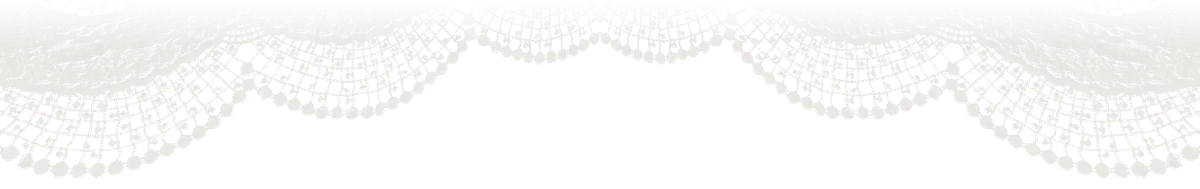
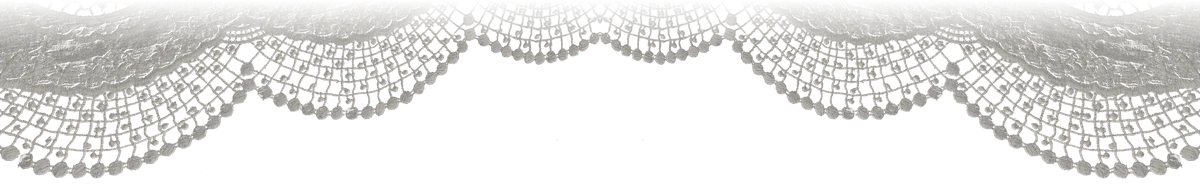
Midnight Chapel: lace edging down both sides; lily backdrop for countdown
- The pearl strand, the lily of the valley at its end and the dropped
  pearls are gone. Instead a scalloped lace edging is sewn down both
  sides of the page as you scroll, scallops facing inward (the hero's
  lace, turned upright, with the thread pattern brought out so it reads
  on white).
- The countdown's frosted glass no longer hides a photo of the couple:
  behind it is a soft white field of lily of the valley that clears as
  it scrolls in.
- The thin lace ribbon under each section heading is removed.

Claude-Session: https://claude.ai/code/session_01B2hpZLg8v4z8WiErSMQ7o1

diff --git a/public/css/lobby-chapel.css b/public/css/lobby-chapel.css
@@ -8,7 +8,7 @@
      材質    白色圓拱與格子天花板、水晶燈、厚玻璃、毛玻璃、白紗、蕾絲、珍珠
      素材    真的照片：純白禮堂、白花走道、去背的戒指／水晶吊燈／鈴蘭／百合／白色蝴蝶蘭、
              白紗、蕾絲、珍珠、滿天星；全部在 public/img/chapel/，出處見 README
-     新人照片  玻璃相片 ×3（照片牆前三張）、故事兩張、倒數的毛玻璃後面一張、出席回覆旁一張
+     新人照片  玻璃相片 ×3（照片牆前三張）、故事兩張、出席回覆旁一張
 
    捲動：
      ・進站：接開場最後一刻 —— 從一片白光裡慢慢定下來
@@ -16,7 +16,7 @@
      ・整頁：兩旁垂著白紗，輕輕飄、跟著捲動慢慢移；左邊一串珍珠跟著捲動往下垂
      ・玻璃相片：捲動時輕輕轉，玻璃上的反光從左滑到右
      ・區塊標題上的實物：捲到的時候從下面浮上來
-     ・倒數：毛玻璃後面是兩個人的照片，越捲越清楚
+     ・倒數：毛玻璃後面是一片鈴蘭，越捲越清楚
 
    每一條規則都收在 .mc-* 或 body[data-lobby="midnight-chapel"] 底下。
 ============================================================ */
@@ -33,7 +33,7 @@ body[data-lobby="midnight-chapel"] .bg-decor{
     radial-gradient(60% 40% at 15% 30%,rgba(214,226,244,.55),transparent 70%),
     radial-gradient(50% 40% at 90% 70%,rgba(244,226,236,.5),transparent 70%),
     linear-gradient(180deg,#fbfaf8,#f4f2ef);}
-.mc-lobby{position:relative;}
+.mc-lobby{position:relative;overflow-x:clip;}
 
 /* ============================================================
    捲動進場
@@ -229,7 +229,8 @@ body[data-hero-name="cn"] .mc-hero .mc-names{font-family:'Noto Serif TC',serif;f
 
 /* ---- 倒數：毛玻璃後面是兩個人的照片，越捲越清楚 ---- */
 .mc-count{--clear:clamp(0,calc((var(--sp,0) - .12) * 2.4),1);}
-.mc-frost-ph{position:absolute;inset:-30px;background:#e8e6ea center 30%/cover no-repeat;
+/* 毛玻璃後面：一片柔白的鈴蘭（Svetlana Butovskaya／Unsplash），捲到這裡慢慢清楚 */
+.mc-frost-ph{position:absolute;inset:-30px;background:#f3f2ee url(../img/chapel/lily-field.webp) 50% 45%/cover no-repeat;
   filter:blur(calc((1 - var(--clear)) * 18px)) saturate(calc(.6 + var(--clear) * .4)) brightness(1.05);}
 .mc-frost{position:absolute;inset:0;background:linear-gradient(180deg,rgba(248,246,243,.7),rgba(248,246,243,.35) 50%,rgba(248,246,243,.7));
   opacity:calc(1 - var(--clear) * .55);}
@@ -263,18 +264,14 @@ body[data-hero-name="cn"] .mc-hero .mc-names{font-family:'Noto Serif TC',serif;f
   display:flex;flex-direction:column;align-items:center;gap:8px;border-top:none;color:var(--mc-soft);}
 .mc-fin{font:italic 400 24px 'Cormorant Garamond',serif;color:var(--mc-gold);text-transform:none;letter-spacing:.02em;}
 
-/* ---- 捲動軌跡：一串真的珍珠（Paula Bustillos／Unsplash）往下垂，末端綁著一小枝鈴蘭，
-   沿路掉下幾顆珍珠（lobby-trail.css） ---- */
-.mc-trail{--line:url(../img/chapel/pearl-strand.webp) center top/22px auto repeat-y;--line-w:22px;
-  --tip:url(../img/chapel/lily-valley2.webp);--tip-w:46px;--tip-ar:213/460;--tip-y:-4%;
-  --mark:url(../img/chapel/pearl.webp);--mark-size:13px;
-  --line-m:url(../img/chapel/pearl-strand.webp) center top/14px auto repeat-y;--line-w-m:14px;}
+/* ---- 捲動軌跡：兩旁的蕾絲縫邊（Anna Evans／Unsplash 的波浪蕾絲，轉成直的、接成一整條），
+   跟著捲動一路往下縫出來；波浪朝向頁面中間（lobby-trail.css） ---- */
+.mc-trail{--line:url(../img/chapel/lace-side.webp) left top/34px auto repeat-y;--line-w:34px;
+  --line-m:url(../img/chapel/lace-side.webp) left top/20px auto repeat-y;--line-w-m:20px;}
 .lx-trail.mc-trail{z-index:6;}
-.mc-trail .lx-trail-line{filter:drop-shadow(0 2px 2px rgba(80,70,60,.18));}
-.mc-trail .lx-trail-tip{animation:mc-swing 4s ease-in-out infinite alternate;filter:drop-shadow(0 6px 6px rgba(80,70,60,.18));}
-@keyframes mc-swing{from{rotate:-4deg;}to{rotate:4deg;}}
-.mc-trail .lx-mark{filter:drop-shadow(0 1px 1.5px rgba(80,70,60,.25));}
-@media (prefers-reduced-motion:reduce){.mc-trail .lx-trail-tip{animation:none;}}
+.mc-trail .lx-trail-line{opacity:.9;filter:drop-shadow(0 1px 1px rgba(80,70,60,.12));}
+.mc-trail-r{--tr-left:min(calc(100% - 24px),calc(50% + 532px));--tr-left-m:calc(100% - 11px);}
+.mc-trail-r .lx-trail-line{transform:translateX(-50%) scaleX(-1);}
 
 /* ---- hero 右下角一枝白色蝴蝶蘭（Jocelyn Morales／Unsplash，去背） ---- */
 .mc-orchid{position:absolute;right:clamp(-30px,-1vw,0px);bottom:clamp(30px,8vh,90px);z-index:2;width:clamp(200px,30vw,420px);aspect-ratio:620/322;
@@ -283,16 +280,11 @@ body[data-hero-name="cn"] .mc-hero .mc-names{font-family:'Noto Serif TC',serif;f
 @keyframes mc-orchid{to{transform:rotate(-5deg) translateY(-4px);}}
 @media (prefers-reduced-motion:reduce){.mc-orchid{animation:none;}}
 
-/* ---- 蕾絲：hero 下緣垂一圈（Anna Evans／Unsplash 的蕾絲花邊，鏡射接成連續的波浪） ---- */
+/* ---- 蕾絲：hero 下緣垂一圈（同一條蕾絲花邊，鏡射接成連續的波浪） ---- */
 .mc-hero{position:relative;}
 .mc-lace-hem{position:absolute;left:0;right:0;bottom:-2px;z-index:3;height:clamp(54px,7vw,90px);pointer-events:none;
   background:url(../img/chapel/lace-edge.webp) 50% 100%/auto 100% repeat-x;transform:scaleY(-1);
   filter:drop-shadow(0 -2px 2px rgba(80,70,60,.12));}
-/* 區塊標題底下一條細細的蕾絲（Susan Wilkinson／Unsplash 的蕾絲緞帶） */
-.mc-head::after{content:'';display:block;width:min(230px,60vw);height:22px;margin-top:10px;
-  background:url(../img/chapel/lace-trim.webp) center/auto 100% repeat-x;opacity:.9;
-  -webkit-mask-image:linear-gradient(90deg,transparent,#000 20%,#000 80%,transparent);mask-image:linear-gradient(90deg,transparent,#000 20%,#000 80%,transparent);}
-
 /* ---- 頁尾：一片柔焦的滿天星（Danielle Suijkerbuijk／Unsplash） ---- */
 .mc-foot{overflow:hidden;padding-top:clamp(70px,10vw,120px);padding-bottom:clamp(60px,8vw,100px);}
 .mc-foot-bg{position:absolute;inset:0;z-index:-1;background:url(../img/chapel/gypsophila.webp) 50% 40%/cover no-repeat;opacity:.75;

diff --git a/preview/midnight-chapel.html b/preview/midnight-chapel.html
@@ -78,12 +78,9 @@
 <div id="app">
   <section class="panel lobby mc-lobby" data-panel="lobby" data-scroll>
 
-    <!-- 一串珍珠跟著捲動往下垂，末端綁著一小枝鈴蘭，沿路掉下幾顆珍珠（--ap 由 lobby-motion.js 算，共用的部分在 lobby-trail.css） -->
-    <div class="lx-trail mc-trail" data-scroll aria-hidden="true">
-      <i class="lx-trail-line"></i>
-      <i class="lx-mark" style="--k:0.1;--mx:15px;--mr:-10deg"></i><i class="lx-mark" style="--k:0.24;--mx:-15px;--mr:20deg"></i><i class="lx-mark" style="--k:0.38;--mx:16px;--mr:0deg"></i><i class="lx-mark" style="--k:0.52;--mx:-15px;--mr:-25deg"></i><i class="lx-mark" style="--k:0.66;--mx:15px;--mr:15deg"></i><i class="lx-mark" style="--k:0.8;--mx:-16px;--mr:-5deg"></i><i class="lx-mark" style="--k:0.94;--mx:15px;--mr:25deg"></i>
-      <i class="lx-trail-tip"></i>
-    </div>
+    <!-- 兩旁的蕾絲縫邊：跟著捲動一路往下縫出來（--ap 由 lobby-motion.js 算，共用的部分在 lobby-trail.css） -->
+    <div class="lx-trail mc-trail mc-trail-l" data-scroll aria-hidden="true"><i class="lx-trail-line"></i></div>
+    <div class="lx-trail mc-trail mc-trail-r" data-scroll aria-hidden="true"><i class="lx-trail-line"></i></div>
 
     <!-- 兩旁垂下來的白紗：固定在視窗兩側，輕輕地飄，跟著捲動慢慢移（--sp 來自 .mc-lobby） -->
     <div class="mc-veils" aria-hidden="true"><i></i><i></i></div>
@@ -229,9 +226,9 @@
         <div class="photo-rail" id="photoRail"></div>
       </section>
 
-      <!-- ===== 日期倒數：一整片毛玻璃，後面是兩個人的照片（第五張）—— 越捲越清楚 ===== -->
+      <!-- ===== 日期倒數：一整片毛玻璃，後面是一片柔白的鈴蘭 —— 越捲越清楚 ===== -->
       <section class="info-block mc-band mc-count" data-scroll>
-        <div class="mc-band-bg" aria-hidden="true"><div class="mc-frost-ph" data-photo="photo5"></div><i class="mc-frost"></i></div>
+        <div class="mc-band-bg" aria-hidden="true"><div class="mc-frost-ph"></div><i class="mc-frost"></i></div>
         <div class="mc-band-inner">
           <div class="mc-count-body mc-glass">
             <div class="mc-band-title">Until the bells ring</div>

diff --git a/public/lobby-chapel.html b/public/lobby-chapel.html
@@ -89,12 +89,9 @@
 <div id="app">
   <section class="panel lobby mc-lobby" data-panel="lobby" data-scroll>
 
-    <!-- 一串珍珠跟著捲動往下垂，末端綁著一小枝鈴蘭，沿路掉下幾顆珍珠（--ap 由 lobby-motion.js 算，共用的部分在 lobby-trail.css） -->
-    <div class="lx-trail mc-trail" data-scroll aria-hidden="true">
-      <i class="lx-trail-line"></i>
-      <i class="lx-mark" style="--k:0.1;--mx:15px;--mr:-10deg"></i><i class="lx-mark" style="--k:0.24;--mx:-15px;--mr:20deg"></i><i class="lx-mark" style="--k:0.38;--mx:16px;--mr:0deg"></i><i class="lx-mark" style="--k:0.52;--mx:-15px;--mr:-25deg"></i><i class="lx-mark" style="--k:0.66;--mx:15px;--mr:15deg"></i><i class="lx-mark" style="--k:0.8;--mx:-16px;--mr:-5deg"></i><i class="lx-mark" style="--k:0.94;--mx:15px;--mr:25deg"></i>
-      <i class="lx-trail-tip"></i>
-    </div>
+    <!-- 兩旁的蕾絲縫邊：跟著捲動一路往下縫出來（--ap 由 lobby-motion.js 算，共用的部分在 lobby-trail.css） -->
+    <div class="lx-trail mc-trail mc-trail-l" data-scroll aria-hidden="true"><i class="lx-trail-line"></i></div>
+    <div class="lx-trail mc-trail mc-trail-r" data-scroll aria-hidden="true"><i class="lx-trail-line"></i></div>
 
     <!-- 兩旁垂下來的白紗：固定在視窗兩側，輕輕地飄，跟著捲動慢慢移（--sp 來自 .mc-lobby） -->
     <div class="mc-veils" aria-hidden="true"><i></i><i></i></div>
@@ -240,9 +237,9 @@
         <div class="photo-rail" id="photoRail"></div>
       </section>
 
-      <!-- ===== 日期倒數：一整片毛玻璃，後面是兩個人的照片（第五張）—— 越捲越清楚 ===== -->
+      <!-- ===== 日期倒數：一整片毛玻璃，後面是一片柔白的鈴蘭 —— 越捲越清楚 ===== -->
       <section class="info-block mc-band mc-count" data-scroll>
-        <div class="mc-band-bg" aria-hidden="true"><div class="mc-frost-ph" data-photo="photo5"></div><i class="mc-frost"></i></div>
+        <div class="mc-band-bg" aria-hidden="true"><div class="mc-frost-ph"></div><i class="mc-frost"></i></div>
         <div class="mc-band-inner">
           <div class="mc-count-body mc-glass">
             <div class="mc-band-title">Until the bells ring</div>

diff --git a/README.md b/README.md
@@ -321,13 +321,12 @@ HTML 裡直接寫 `{{couple}}`、`{{date}}`、`{{hashtag}}` 這類 token，
 > | `chapel/chandelier.webp` | hero 前景的水晶燈、當日流程 | [水晶吊燈](https://unsplash.com/photos/ayj4F0PC-I8)・CHUTTERSNAP | 去背 |
 > | `chapel/rings.webp` | 婚禮資訊 | [一對戒指](https://unsplash.com/photos/Vyy8tY3D3nk)・Deena Englard | 去背 |
 > | `chapel/lilies.webp` | 交通資訊 | [一瓶百合](https://unsplash.com/photos/JwhaKMTJAD0)・Eddie Hsu | 去背，底部淡出 |
-> | `chapel/lily-valley.webp`、`lily-valley2.webp` | 小提醒（一枝鈴蘭）、珍珠串末端綁的那一小枝 | [鈴蘭](https://unsplash.com/photos/81NtL7snxoI)・Svetlana Butovskaya、[兩枝鈴蘭](https://unsplash.com/photos/2R5jr_bvgUw)・Anthony Cantin | 去背 |
+> | `chapel/lily-valley.webp` | 小提醒（一枝鈴蘭） | [鈴蘭](https://unsplash.com/photos/81NtL7snxoI)・Svetlana Butovskaya | 去背 |
+> | `chapel/lily-field.webp` | 倒數的毛玻璃後面（越捲越清楚） | 同上，整張照片 | 縮圖 |
 > | `chapel/orchid.webp` | hero 右下角、R.S.V.P. | [黑底上的一枝白色蝴蝶蘭](https://unsplash.com/photos/kGckDAbXZA8)・Jocelyn Morales | 依亮度去背 |
 > | `chapel/gypsophila.webp` | 頁尾的背景 | [一片滿天星](https://unsplash.com/photos/AWZ3l66_iKw)・Danielle Suijkerbuijk | 縮圖 |
 > | `chapel/tulle.webp` | 整頁兩旁垂下來的白紗 | [垂墜的白紗](https://unsplash.com/photos/hM7P386VIOg)・Kristina Tochilko | 縮圖 |
-> | `chapel/lace-edge.webp` | hero 下緣的一圈蕾絲 | [波浪邊的白色蕾絲](https://unsplash.com/photos/AdX5Qpl7Xy0)・Anna Evans | 依亮度去背，取波浪邊那一段，鏡射接成連續的波浪 |
-> | `chapel/lace-trim.webp` | 每一區標題底下的一條蕾絲 | [一條蕾絲緞帶](https://unsplash.com/photos/4zd2OfT06MU)・Susan Wilkinson | 扣掉藍綠色的底，調成暖白 |
-> | `chapel/pearl-strand.webp`、`pearl.webp` | 整頁左邊跟著捲動往下垂的珍珠串、沿路掉下的珍珠 | [垂下來的一串珍珠](https://unsplash.com/photos/ZR_XjFWn0J4)・Paula Bustillos | 取筆直的一段（三顆）接成可以無縫重複，依亮度去背；再切出一顆單獨的 |
+> | `chapel/lace-edge.webp`、`lace-side.webp` | hero 下緣的一圈蕾絲；兩旁跟著捲動縫出來的蕾絲邊 | [波浪邊的白色蕾絲](https://unsplash.com/photos/AdX5Qpl7Xy0)・Anna Evans | 依亮度去背、加深花紋，取波浪邊那一段，鏡射接成連續的波浪；再轉成直的一條 |
 
 > **晨光房間的照片素材**（`public/img/window/`，開場的紗簾與 `lobby-window.html` 共用）：一樣是 Unsplash License。
 >
@@ -353,7 +352,7 @@ HTML 裡直接寫 `{{couple}}`、`{{date}}`、`{{hashtag}}` 這類 token，
 > | 版型 | 線 | 領頭 | 沿路留下 |
 > |---|---|---|---|
 > | Forest Botanical | 一根藤蔓（CSS） | `forest/sprig.webp` 新芽 | 葉子、橡實、莓果（森林小物） |
-> | Midnight Chapel | `chapel/pearl-strand.webp` 一串真的珍珠 | `chapel/lily-valley2.webp` 末端綁著一小枝鈴蘭 | `chapel/pearl.webp` 一顆一顆掉下的珍珠 |
+> | Midnight Chapel | `chapel/lace-side.webp` 兩旁各一條蕾絲邊，波浪朝向頁面中間 | — | — |
 > | Morning Window | 一根細細的、不太直的乾草莖（CSS） | `window/grass-plume.webp` 一束乾草穗 | `window/seedhead.webp` 乾燥的種子花頭 |
 
 > **Forest Botanical 的手繪森林小物**（`public/img/forest/`，`lobby-forest.html`）：全部來自同一張 Unsplash 插畫
@@ -393,7 +392,7 @@ HTML 裡直接寫 `{{couple}}`、`{{date}}`、`{{hashtag}}` 這類 token，
 | night-sky | ✅ 整套插圖（現代星空：開場那張心形星圖停在 hero、寫實的月亮、三層山稜、亮燈的帳篷、坐著看星星的兩個人、細金線星座）＋ 捲動編排（三層星星視差、星圖外環跟著轉、星座一條一條連起來、望遠鏡視野的軌道、倒數的月亮越捲越圓、頁尾天快亮了） | `lobby-night.html` |
 | french-manor | ✅ 文藝復興：真的天頂濕壁畫、去背的大理石雕像與雕刻（花神、天使、小天使胸像、玫瑰花飾、女神、丘比特與賽姬）、大理石名牌 ＋ 從真的照片描出來的剪紙（城堡剪出一排排窗、托斯卡尼柏樹）＋ 開場走進的那座花園當倒數的背景 ＋ 新人照片放在剪紙橢圓花邊框（共 7 處）＋ 捲動編排（hero 的剪紙一層一層視差、倒數的花園照片視差），素材見上面〈法式莊園的照片素材〉 | `lobby-manor.html` |
 | morning-window | ✅ 侘寂（Wabi-Sabi）：真的照片（窗前的一瓶鬱金香、灰泥牆、牆上窗格形狀的陽光、亞麻布、照著陽光的紗簾），顏色都是褪過的大地色 ＋ 一張桌子：洗出來的照片散在亞麻桌巾上、去背的手作陶杯／北歐抱枕／粗陶瓶 ＋ 區塊標題上是去背的侘寂小物（陶杯、粗陶瓶、乾燥薊花，不放在框裡）＋ 左邊一枝乾草跟著捲動垂下來＋ 新人照片共 7 處 ＋ 捲動編排（照片一張張落到桌上、窗光滑過桌面、倒數時紗簾越捲越暖），素材見上面〈晨光房間的照片素材〉 | `lobby-window.html` |
-| midnight-chapel | ✅ 開場在午夜的禮堂點亮三根真的蠟燭 → 燭火熄掉、天亮 → 大廳是同一座純白禮堂；玻璃感：照片壓在厚玻璃裡（反光隨捲動滑過）、毛玻璃的卡；兩旁垂著白紗、hero 下緣一圈蕾絲、每一區標題底下一條蕾絲、左邊一串珍珠跟著捲動往下垂（末端一小枝鈴蘭）、頁尾一片滿天星；區塊標題上是去背的實物（戒指、水晶燈、鈴蘭、百合、白色蝴蝶蘭）；新人照片共 8 處（倒數那張在毛玻璃後面，越捲越清楚），素材見上面〈午夜教堂的照片素材〉 | `lobby-chapel.html` |
+| midnight-chapel | ✅ 開場在午夜的禮堂點亮三根真的蠟燭 → 燭火熄掉、天亮 → 大廳是同一座純白禮堂；玻璃感：照片壓在厚玻璃裡（反光隨捲動滑過）、毛玻璃的卡；兩旁垂著白紗、hero 下緣一圈蕾絲、兩旁的蕾絲邊跟著捲動一路縫下來、頁尾一片滿天星；區塊標題上是去背的實物（戒指、水晶燈、鈴蘭、百合、白色蝴蝶蘭）；新人照片共 7 處（倒數的毛玻璃後面是一片鈴蘭，越捲越清楚），素材見上面〈午夜教堂的照片素材〉 | `lobby-chapel.html` |
 
 Night Sky 與 Midnight Chapel 的大廳是深色的，但子頁暫時還是淺色版（見 common.css）。
 每個版型各有一頁示範（`preview/botanical-letter.html`、`preview/secret-garden.html`、`preview/spring-orangerie.html`、`preview/night-sky.html`、`preview/french-manor.html`、`preview/morning-window.html`、`preview/midnight-chapel.html`）。右下角都可以切換開場。
